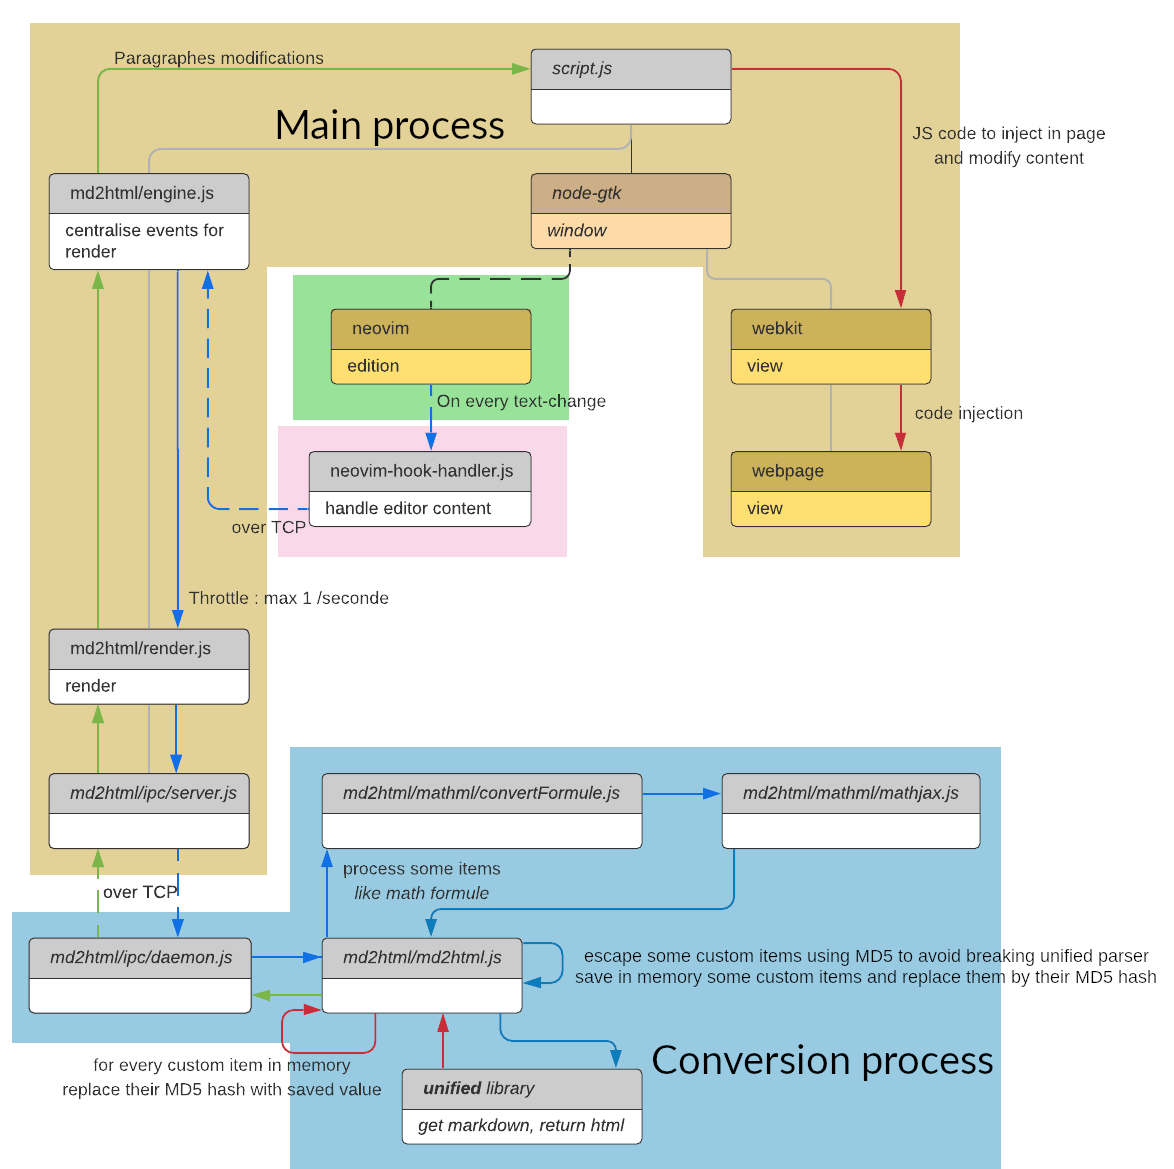
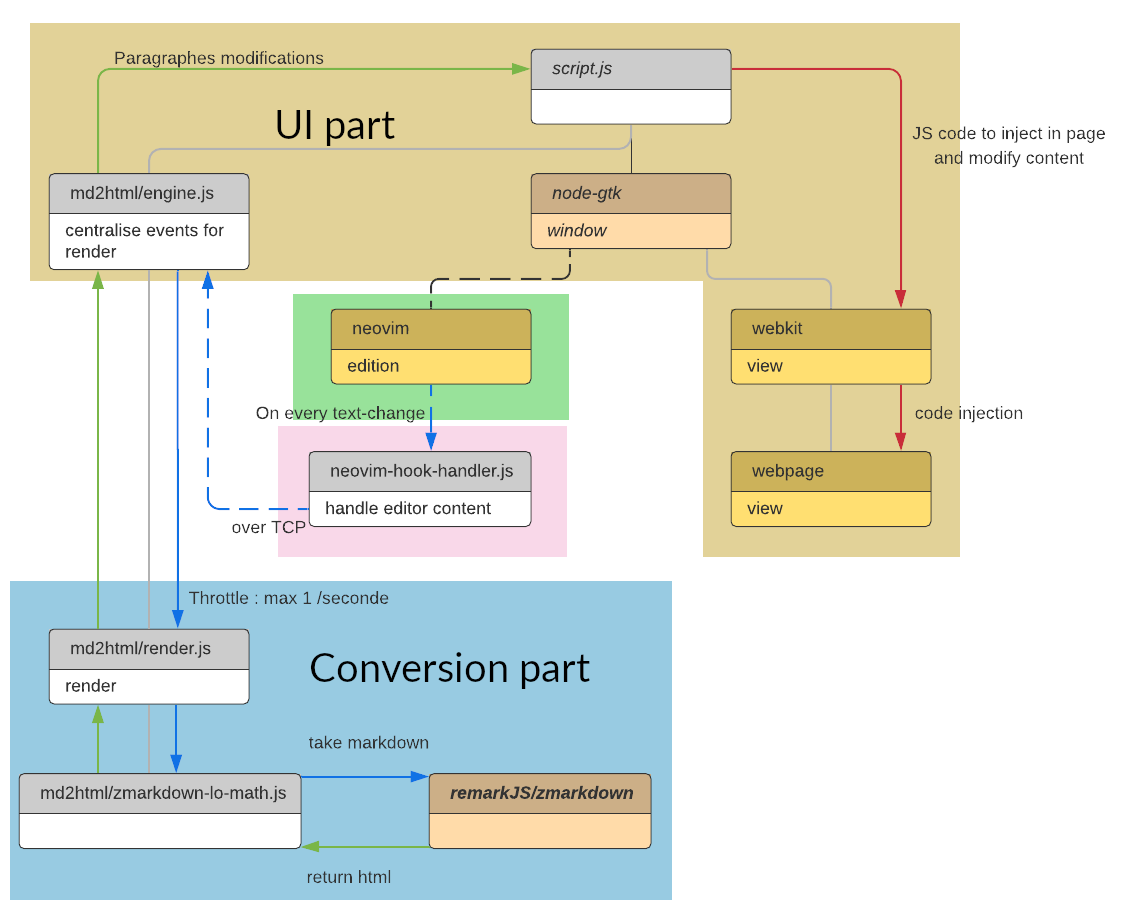
major update

diff --git a/md2html/zmarkdown-lo-math.js b/md2html/zmarkdown-lo-math.js
@@ -23,17 +23,32 @@ yourHtmlConfig.disableTokenizers = {
 const imagesFolder =
 	filename.split('/').slice(0, -1).join('/') + '/'
 
+yourMdastConfig.emoticons.emoticons = Object.entries(
+	yourMdastConfig.emoticons.emoticons
+).reduce((acc, [key, value]) => {
+	acc[key] =
+		__dirname.split('/').slice(0, -1).join('/') +
+		'/front/images/smileys/svg/' +
+		value.split('/').slice(4).join('/')
+
+	return acc
+}, [])
+
+console.log(yourMdastConfig.emoticons.emoticons)
+
 // 3. Use your plugin instead
 yourMdastConfig.extraPlugins = {}
 
 yourHtmlConfig.extraPlugins = {
-	'remark-smiles': require('../../remark-math-to-smiles'),
-	'rehype-smiles': require('../../rehype-smiles'),
-	'lo-math': require('../../rehype-LO-math'),
+	'remark-smiles': require('remark-smiles'),
+	'rehype-smiles': require('rehype-smiles'),
+	'lo-math': require('rehype-lo-math'),
 	'remark-attr': require('remark-attr'),
-	'remark-change-image-paths': require('@h2xd/remark-change-image-paths')(
+	'remark-change-image-paths': require('../../remark-change-image-paths')(
 		{
-			search: '^',
+			//search: /^(?!smileys\/)/,
+			search: /^(?!smileys\/|\/)/,
+			//search: /^/,
 			replace: imagesFolder,
 		}
 	),

diff --git a/sample.md b/sample.md
@@ -40,9 +40,9 @@ Le mot ~~barré~~ est barré.
 
 -> Ce texte est aligné à droite. ->
 
-2^10 vaut 1024.
+$2^10$ vaut $1024$.
 
-La molécule de l'eau est H~2~O.
+La molécule de l'eau est $H_2O$.
 
 
 - Ma très belle ;
@@ -71,7 +71,75 @@ Sam |   38
 Alice  |   35
 Mathilde  | 35
 
-# split
+# tables syntaxes
+
+## quick
+
+not need to align everything perfectly, **save a lot of time**
+
+-------------------
+Nom    |   Age
+===============
+Fred    |    39
+-------------------
+Sam    |   38
+-------------------
+Alice     |   35
+-------------------
+Mathilde  | 35
+-------------------
+
+possible to create **multi-lines cells**
+
+-------------------
+Nom    |   Age
+===============
+Fred    |    39
+-------------------
+Sam    |   38
+-------------------
+Alice     |   35
+Mathilde  | 
+-------------------
+
+possible to create **multi-rows cells**
+
+`#` char make the cell $+1$ row width
+_the last cel of the line take extra space if there is, like the last 2 lines_
+
+----------------------------
+Nom    |   Age | play music
+===========================
+Melan         #| true
+----------------------------
+Sam    |   38  | No
+----------------------------
+Alice     |   35
+Mathilde  | 
+----------------------------
+Fred    |    39
+----------------------------
+
+
+
+## Another quick table syntaxe
+
+Less powerfull
+
+_need to align everything perfectly_
+
+Nom     |   Age
+------|-----
+Fred |   39
+Sam |   38
+Alice  |   35
+Mathilde  | 35
+Table: Tableau des âges
+
+
+## complex table syntaxe
+
+Complex table syntaxe allow crazy things like the `spans` words wich is on 2 rows, but require everythings to be well aligned, so **take a lot of time to write and edit**
 
 +-------+----------+------+
 | Table Headings   | Here |
@@ -90,26 +158,16 @@ Mathilde  | 35
 +-------+-----------------+
 
 
-Nom     |   Age
-------|-----
-Fred |   39
-Sam |   38
-Alice  |   35
-Mathilde  | 35
-Table: Tableau des âges
-
-
-
-------
-
+# Math
 
 $$a * x^2 + b * x + c = 0  => x = {-b +- sqrt{b^2 - 4ac}} over {2a}$$
 
 Si vous voulez écrire votre formule au sein même d'un paragraphe (comme ceci : $a \cdot x^2 + b \cdot x + c = 0$), alors n'utilisez cette fois qu'un seul caractère dollar `$` avant et après votre formule.
 
 
-# split
+# Code
 
+Sans langage : 
 ```
 #!/usr/bin/env python3
 
@@ -141,9 +199,11 @@ print "Bonjour, $nom !\n";
 
 !(http://www.youtube.com/watch?v=oavMtUWDBTM)
 
-Utilisez ||Ctrl|| + ||C|| pour copier.
+Utilisez ||Ctrl|| + ||Shift|| + ||C|| pour copier.
+Utilisez ||Ctrl|| + ||Shift|| + ||V|| pour coller.
 
-Smileys
+# Smileys
+
 :)
 
 :p :euh:

diff --git a/README.md b/README.md
@@ -18,14 +18,20 @@ apt-get install libwebkit2gtk-4.0
 
 take a look at [node-gtk install](https://github.com/romgrk/node-gtk#installing-and-building)
 
+for the moment, it may not run well on other platforms, because of it's dependencies to GTK. It's on the roadmap.
+
 ## install
 
 ```bash
-git clone https://github.com/Drulac/markdown-math-editor.git
-cd markdown-math-editor
-npm install
-node script.js file.md
+sudo npm install -g markdown-math-editor
 ```
+
+then to open a file with the editor run :
+
+```bash
+markdown-math-editor file.md
+```
+
 
 ## how to use
 
@@ -43,12 +49,18 @@ this editor was created to edit my University courses, which were in `odt` forma
 
 add markdown syntax sample and explain
 
-## warning
-
-The editor is functionnal, but the code really need to be refactored
-
 ## contribute
 
 This is a schematic explaining the current code functioning
 
 ![](markdown-math-editor.png)
+
+### install for developpement
+
+```bash
+git clone https://github.com/Drulac/markdown-math-editor.git
+cd markdown-math-editor
+npm install
+node script.js file.md
+```
+
